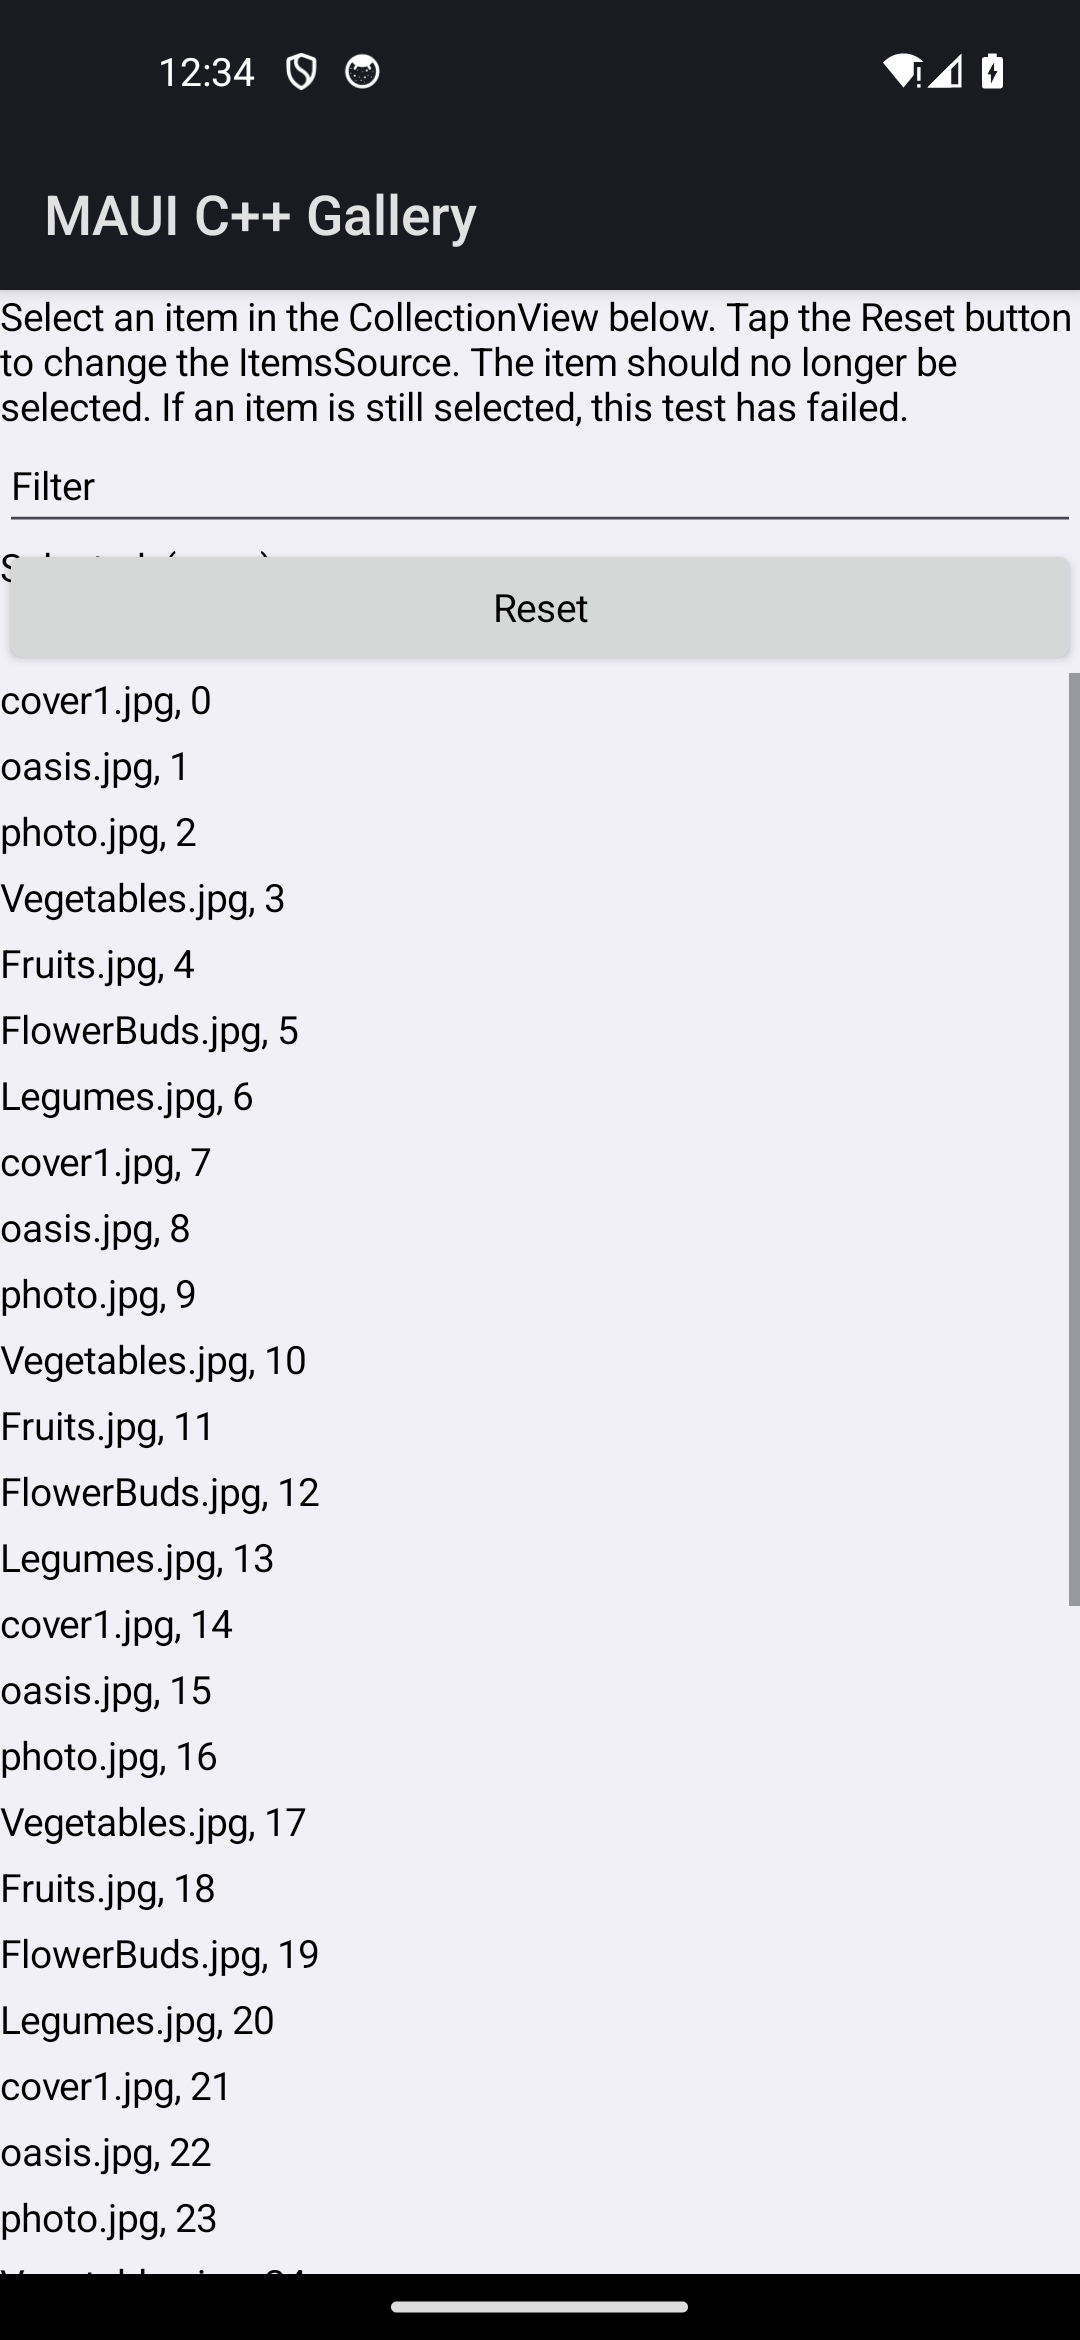
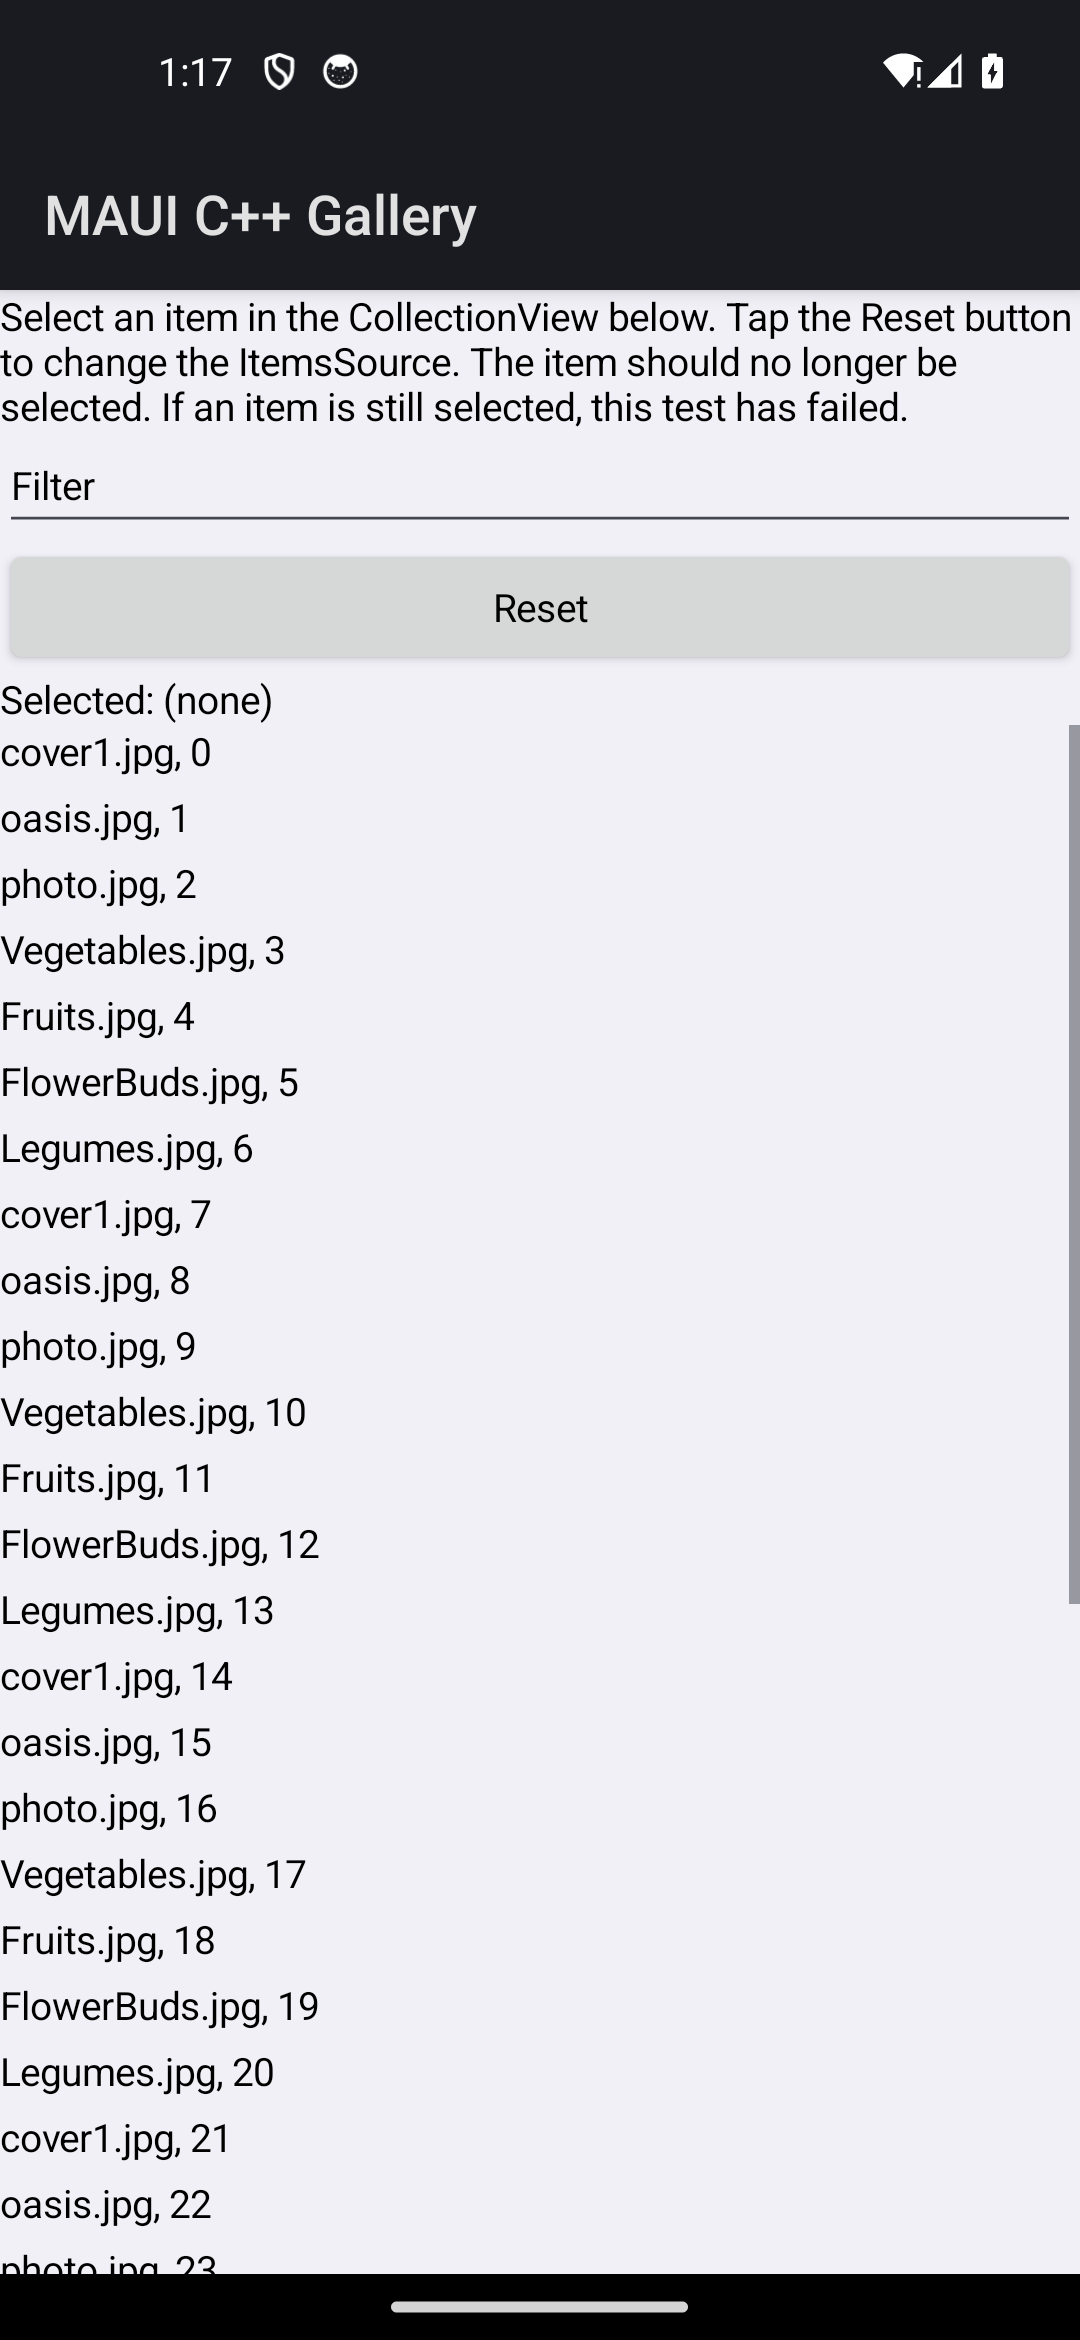
fix(android): filter_selection Reset/readout overlap — readout gets its own grid row (wave 23)
The port-added diagnostic readout Label shared Grid row 2 with the Reset button,
relying on the button being transparent so the label showed through to its left
(true on iOS — native UIButton has no opaque fill). On Android the native
android.widget.Button carries an opaque Material background that paints over the
whole cell, hiding the overlapped 'Selected: (none)' label (only 'S...' peeked
out). Give the readout its own Auto row (grid is now Auto/Auto/Auto/Auto/*) so the
two never collide on any backend — matches the iOS reference's intent.

Recaptured docs/comparison/android/cpp/filter_selection.png: label now renders
cleanly below the Reset button, list follows. Headless grid tests green.

diff --git a/port/cpp/examples/gallery/pages/filter_selection_page.hpp b/port/cpp/examples/gallery/pages/filter_selection_page.hpp
@@ -109,7 +109,15 @@ namespace maui::samples
 
             update_readout(list_.selected_item()); // initial "Selected: (none)"
 
-            // ---- assemble the Grid (Auto / Auto / Auto / *) ----
+            // ---- assemble the Grid (Auto / Auto / Auto / Auto / *) ----
+            // The C# XAML is Auto/Auto/Auto/* (instructions / SearchBar / Reset / CollectionView). The port
+            // adds a diagnostic readout Label the C# page lacks (selection has no headless cell-visual analog).
+            // It used to share the Reset row, relying on the button being transparent so the label showed
+            // through to its left (true on iOS, where the native UIButton has no opaque fill). On Android the
+            // native android.widget.Button carries an OPAQUE Material background that paints over the whole
+            // cell, hiding the overlapped label. Give the readout its own Auto row so the two never collide on
+            // any backend — a strict improvement that matches the iOS reference's intent (both fully visible).
+            grid_.add_row_definition(maui::core::grid_length::automatic());
             grid_.add_row_definition(maui::core::grid_length::automatic());
             grid_.add_row_definition(maui::core::grid_length::automatic());
             grid_.add_row_definition(maui::core::grid_length::automatic());
@@ -121,9 +129,9 @@ namespace maui::samples
             grid_.add(reset_button_);
             grid_.set_row(reset_button_, 2);
             grid_.add(readout_);
-            grid_.set_row(readout_, 2); // the readout shares the Reset row visually; placement is incidental
+            grid_.set_row(readout_, 3); // the readout gets its own row (was shared with Reset — overlap fix)
             grid_.add(list_);
-            grid_.set_row(list_, 3);
+            grid_.set_row(list_, 4);
 
             page_.set_content(grid_);
         }
